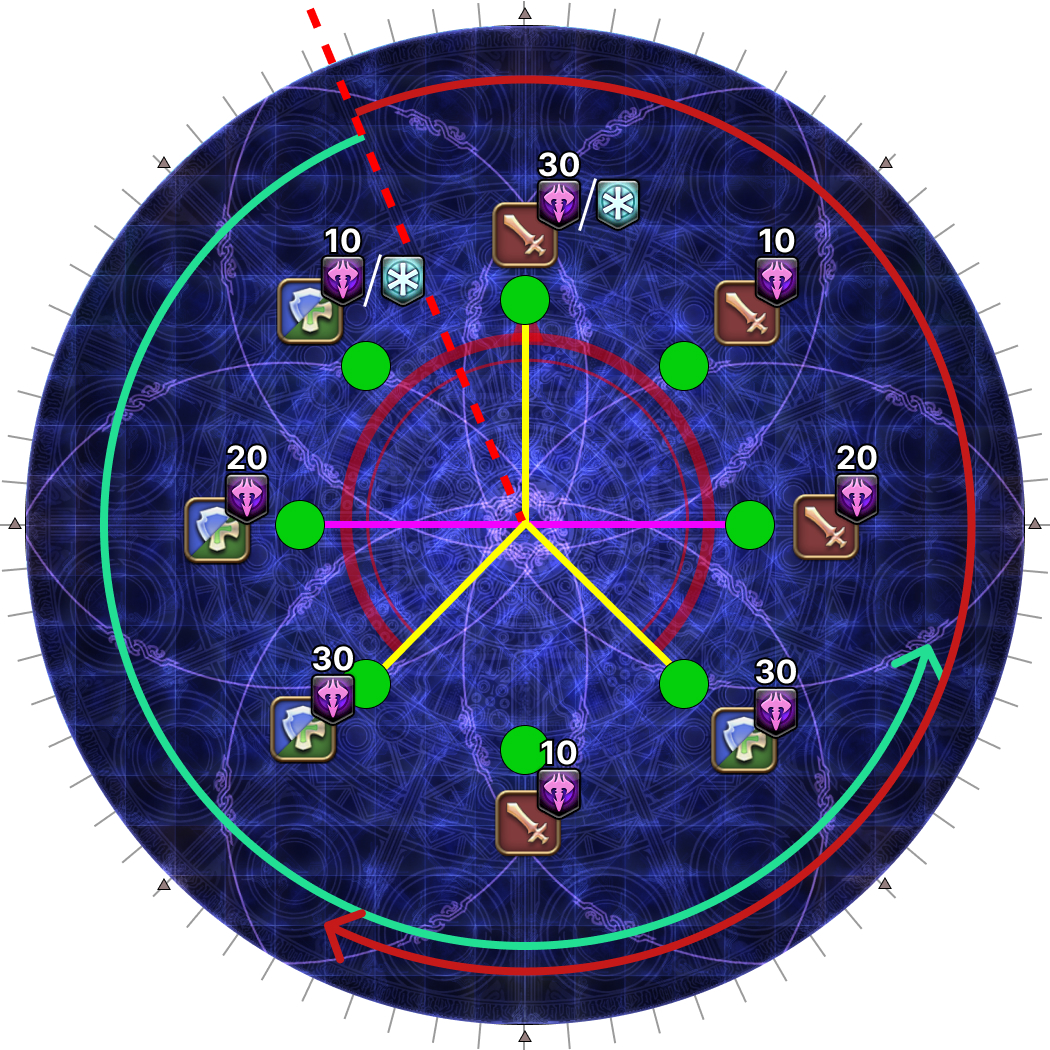
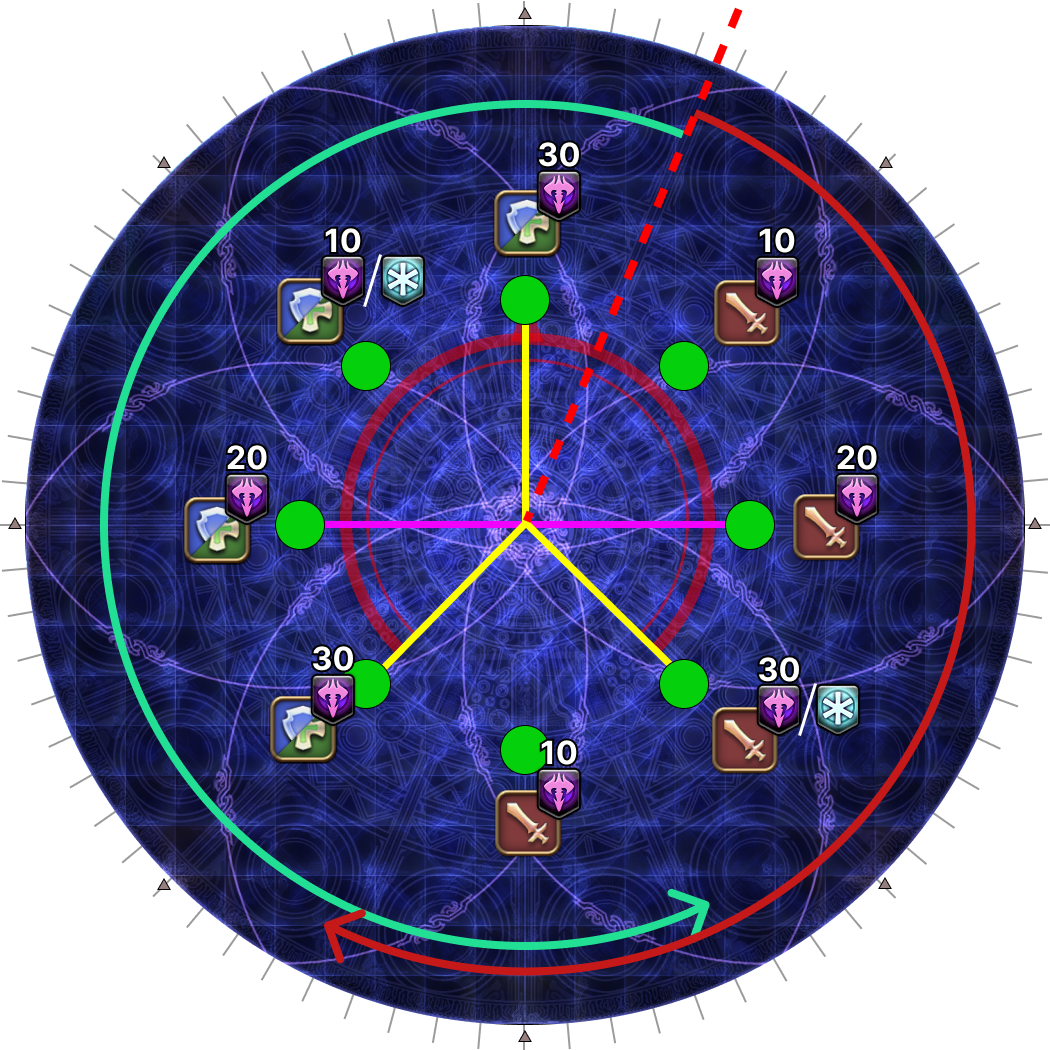
Update UR Awk prio

diff --git a/_ultimates/fru/03_oracle_of_darkness.en.md b/_ultimates/fru/03_oracle_of_darkness.en.md
@@ -105,16 +105,16 @@ appear and when the tethers appear.
       <p><b>1.</b> Face the map's North, and find the first hourglass for your 
       group:</p>
       <ul>
-        <li><b>Tanks/Healers:</b> Start from NW, go anti-clockwise.</li>
+        <li><b>Tanks/Healers:</b> Start from N, go anti-clockwise.</li>
         <li>Long fires follow the priority:
           <ul>
-            <li><b>NW (going ccw): </b> MT > ST > H1 > H2 <b>:N</b></li>
+            <li><b>N (going ccw): </b> H2 > H1 > ST > MT <b>:NE</b></li>
           </ul>
         </li>
-        <li><b>DPS:</b> Start from N, go clockwise.</li>
+        <li><b>DPS:</b> Start from NE, go clockwise.</li>
         <li>Short fires follow the priority:
           <ul>
-            <li><b>N (going cw): </b> D1 > D2 > D3 > D4 <b>:NW</b></li>
+            <li><b>NE (going cw): </b> D4 > D3 > D2 > D1 <b>:N</b></li>
           </ul>
         </li>
       </ul>
@@ -462,3 +462,29 @@ one of each debuff (nothing, 10s, 29s, 38s).
 The boss ends this sequence with another *Shockwave Pulsar* before casting 
 *Memory's End* for the enrage. Like the previous phase, the Oracle of Darkness
 must be brought down to under 20.0% HP to advance.
+
+---
+
+## Frequently Asked Questions
+
+<details markdown=block>
+<summary>
+  <b>[Ultimate Relativity (Awk)]</b> Why do the priorities go backwards from
+  North?
+</summary>
+<table>
+  <tr>
+    <td>
+      <p>The boss is facing North throughout <em>Ultimate Relativity</em>.</p>
+      <p>With that in mind, having the priority "backwards" gives:</p>
+      <ul>
+        <li>The healers the easiest positions to figure out.</li>
+        <li>Melee the highest chance of getting positionals.</li>
+      </ul>
+    </td>
+  </tr>
+</table>
+</details>
+
+<script data-goatcounter="https://tuufless.goatcounter.com/count"
+        async src="//gc.zgo.at/count.js"></script>
